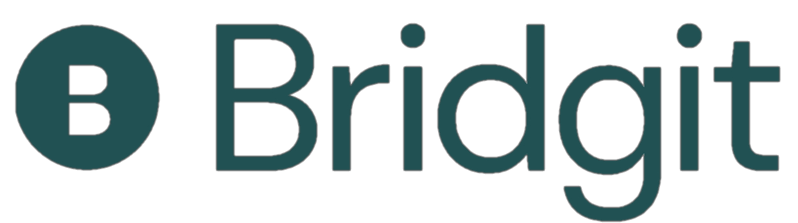
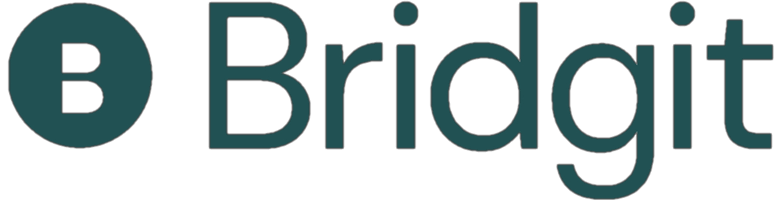
resized images and changed border on private tech partners, removed redundant headers

Changed region(s): [[0.2455, 0.0, 1.0, 1.0], [0.0, 0.0, 0.2148, 0.78], [0.1841, 0.24, 0.2148, 0.3]]

diff --git a/src/components/PrivateFeatures/TechPartners.js b/src/components/PrivateFeatures/TechPartners.js
@@ -18,7 +18,7 @@ const partnerData = [
   {
     name: "Airtable",
     imgSrc: Airtable,
-    description: "A host for multiple internal applications for use across a wide range of workflows within TCE as a whole.",
+    description: "A host for multiple internal applications for use across a wide range of workflows",
     extraText: "Airtable assists various user groups and their specific needs, including TCIG, Estimating, Safety, Engineers, and Project Managers. TCIG and Estimating leverage Airtable's static database functionality to track internal assets and plan future bids, complementing their workflow with Bridgit Bench. The efficiency gains are further enhanced through Airtable's process logic and email automation, seamlessly integrated into multiple applications. The safety team benefits from automation in capturing track/safety certifications in a database and notifies safety managers of expiration dates, reducing downtime required for updating certifications which often have lead times of over three months.",
     contactName: "Chris Kruger",
     contactEmail: "ckruger@tcelect.net",
@@ -31,7 +31,7 @@ const partnerData = [
   {
     name: "ProCore",
     imgSrc: ProCore,
-    description: "Work more efficiently, communicate better, and build faster from a single source of truth.",
+    description: "Work more efficiently, communicate better, and build faster from a single source of truth",
     extraText: "Procore streamlines project management by centralizing document storage and eliminating the hassles of fragmented version control. This all-in-one platform enhances the workflows of all project personnel, whether they're in the field or in the office. Preconstruction tasks like estimate management, bid coordination, budget calculations, and team personnel tracking become effortless. During active projects, Procore excels at automating RFIs and Submittals, simplifying mark-ups and drawing labeling, maintaining comprehensive daily logs in real-time, providing fillable Quality and Safety reports, and offering numerous other invaluable features.",
     contactName: "Patrick Besser",
     contactEmail: "pbesser@tcelect.net",
@@ -41,7 +41,7 @@ const partnerData = [
   {
     name: "OpenSpace",
     imgSrc: OpenSpace,
-    description: "Visual documentation of construction sites from walk-throughs.",
+    description: "Visual documentation of construction sites from walk-throughs",
     extraText: "OpenSpace offers engineers and project managers a practical solution for progress tracking, featuring a 360-degree camera attached to a hard hat that automatically records construction sites in 3-D. Executive Leadership can now remotely view the walk through of a project, in a similar manner to Google Maps, without the need to be there in-person. It allows for the addition of detailed photos and field notes during site walkthroughs, providing a comprehensive view for remote oversight, timeline tracking, and cost-effective insurance management.",
     contactName: "Rory O'Neill",
     contactEmail: "roneill@tcelect.net",
@@ -53,7 +53,7 @@ const partnerData = [
   {
     name: "Bridgit",
     imgSrc: Bridgit,
-    description: "Transforms workforce data into actionable insights that inform an organization’s strategic and tactical business decisions.",
+    description: "Transforms workforce data into insights that inform strategic and tactical business decisions",
     extraText: "Bridgit Bench improves project management by seamlessly integrating project and individual employee data, enabling more precise timelines and workforce optimization. During the pre-construction phase, it facilitates the creation and assignment of role titles and streamlines the coordination of Key Personnel for Design-Build Projects. As projects transition into the active phase and employees are assigned to specific roles, Bridgit Bench ensures optimal allocation, preventing overwork, and strategically placing employees based on their qualifications, certifications, and project history to meet both their needs and the project's requirements.",
     contactName: "Jacob Shavel",
     contactEmail: "jshavel@tcelect.net",
@@ -65,7 +65,7 @@ const partnerData = [
   {
     name: "EZOfficeInventory",
     imgSrc: EZ,
-    description: "Asset management for maximizing overstock usage and minimizing item surplus.",
+    description: "Asset management for maximizing overstock usage and minimizing item surplus",
     extraText: "EZOffice Inventory provides comprehensive asset tracking capabilities for items that can be allocated to various project sites. It mitigates the risk of lost or misused assets while optimizing resource utilization. Warehouse users benefit from streamlined processes for efficiently managing the inflow and outflow of items. Notable features, including location tracking and customized item groupings, eliminate the need for manual searches, ensuring zero downtime and efficient access to available in-stock items.",
     contactName: "Chris Kruger",
     contactEmail: "ckruger@tcelect.net",
@@ -77,7 +77,7 @@ const partnerData = [
   {
     name: "Matterport",
     imgSrc: Matterport,
-    description: "Capture and connect rooms to create detailed, interactive 3D spaces.",
+    description: "Capture and connect rooms to create detailed, interactive 3D spaces",
     extraText: "By utilizing Matterport cameras in construction settings, the camera seamlessly converts physical environments into immersive 3D models. This digital recreation enables remote viewing from any location and allows for quick, accurate distance measurements. Whether applied indoors or outdoors, Matterport's 3D documentation system captures a visual snapshot at each project milestone, serving as a comprehensive record-keeping tool throughout the construction process.",
     contactName: "Rory O'Neill",
     contactEmail: "roneill@tcelect.net",
@@ -87,7 +87,7 @@ const partnerData = [
   {
     name: "Oracle",
     imgSrc: Oracle,
-    description: "Maximize project efficiency and performance with Oracle P6, the robust and easy-to-use integrated project portfolio management solution.",
+    description: "Maximize efficiency and performance with an integrated project portfolio management solution",
     extraText: "Oracle P6 offers unparalleled control over project complexity by facilitating planning, scheduling, and resource management across your entire portfolio. P6 is tailored for large-scale, highly sophisticated project management and enables organizations to meet deadlines, stay within budget, and achieve their project goals. It excels in multi-user and multi-project environments with features like Gantt charts, Work Breakdown Structures, and comprehensive reporting tools.",
     contactName: "Sahul Kadarpeta",
     contactEmail: "skadarpeta@tcelect.net",
@@ -97,7 +97,7 @@ const partnerData = [
   {
     name: "FieldWire",
     imgSrc: FieldWire,
-    description: "Standardized workflow and collaboration for marking up drawings.",
+    description: "Standardized workflow and collaboration for marking up drawings",
     extraText: "Fieldwire streamlines collaboration and version control for multiple engineers, eliminating the need to constantly ensure that work is done on the latest document version. In the past, projects faced challenges with communication among engineers and maintaining consistency in project drawings. However, Fieldwire offers a standardized space for document history and collaborative drawing markups, effectively reducing the pain points associated with maintaining consistency, enhancing communication, and improving overall efficiency.",
     contactName: "Rory O'Neill",
     contactEmail: "roneill@tcelect.net",
@@ -107,11 +107,10 @@ const partnerData = [
 ];
 
 const TechPartners = () => {
-  const [readMoreStates, setReadMoreStates] = useState(new Array(partnerData.length).fill(false));
+  const [expandedIndex, setExpandedIndex] = useState(-1);
 
   const toggleReadMore = (index) => {
-    const newReadMoreStates = readMoreStates.map((state, i) => (i === index ? !state : state));
-    setReadMoreStates(newReadMoreStates);
+    setExpandedIndex(expandedIndex === index ? -1 : index);
   };
 
   const handleImageClick = (e, partner) => {
@@ -125,7 +124,6 @@ const TechPartners = () => {
 
   return (
     <div className="container">
-      <div className="header">TECH PARTNERS</div>
       <br />
       <div className="tech-subheader">
         On this page you will find information about software tools in TCE's technology stack. 
@@ -136,14 +134,13 @@ const TechPartners = () => {
       </div>
       <div className="cards-container">
         {partnerData.map((partner, index) => (
-          <div className="card" key={index} onClick={() => toggleReadMore(index)}>
+          <div className={`card ${expandedIndex === index ? 'expanded' : ''}`} key={index} onClick={() => toggleReadMore(index)}>
             
             <div className="one-liner-container">
               <div className="card-image" onClick={(e) => handleImageClick(e, partner)}>
                 <img
                   src={partner.imgSrc}
                   alt={partner.name}
-                  style={{ cursor: 'pointer' }}
                 />
               </div>
   
@@ -152,11 +149,11 @@ const TechPartners = () => {
               </div>    
 
               <IconButton onClick={() => toggleReadMore(index)} className="read-more-button" disableRipple>
-                {readMoreStates[index] ? <KeyboardArrowUpIcon/> : <KeyboardArrowDownIcon/>}
-              </IconButton>          
+                {expandedIndex === index ? <KeyboardArrowUpIcon/> : <KeyboardArrowDownIcon/>}
+              </IconButton>        
             </div>
   
-            {readMoreStates[index] && (
+            {expandedIndex === index && (
               <div className="expanded-container">
                 <div className="link-box">
                   {partner.documents && partner.documents.map((doc, docIndex) => (

diff --git a/src/components/General/Navigation.js b/src/components/General/Navigation.js
@@ -61,6 +61,10 @@ function ResponsiveAppBar() {
                 return 'Idea Submission';
             case 'public':
                 return 'TCE Innovation Group';
+            case 'tech':
+                return 'Tech Partners';
+            case 'privateHome':
+                return 'Welcome';
             default:
                 return 'TCE Innovation Group';  
         }
@@ -85,16 +89,16 @@ function ResponsiveAppBar() {
                 <Toolbar disableGutters>
                     <Box sx={{ display: 'flex', alignItems: 'center'}}>       
                         <NavLink to="/">
-                        <img
-                            src={logo}
-                            alt='logo'
-                            style={{
-                                width: '180px',
-                                marginLeft: '20px',
-                                marginTop: '4px'
-                            }}
-                            draggable="false"
-                        />
+                            <img
+                                src={logo}
+                                alt='logo'
+                                style={{
+                                    width: '180px',
+                                    marginLeft: '20px',
+                                    marginTop: '4px'
+                                }}
+                                draggable="false"
+                            />
                         </NavLink>
                     </Box>
                     <Typography

diff --git a/src/components/PrivateFeatures/privateStyle.css b/src/components/PrivateFeatures/privateStyle.css
@@ -17,10 +17,9 @@
   }
 
   .tech-subheader {
-    color: #003eab;
+    color: #1b365f;
     font-family: "Inter-Bold", Helvetica;
-    font-size: 23px;
-    font-weight: 700;
+    font-size: 24px;
     letter-spacing: 0;
     line-height: normal;
     margin-bottom: 40px;
@@ -37,16 +36,13 @@
   .card {
     display: flex;
     flex-direction: column;
-    justify-content: space-between;
-    border: #1b365f 2px solid;
     width: 100%;
     margin-bottom: 20px;
     padding: 20px;
-    box-shadow: inset 0px 0px 10px #1b365f;
   }
 
   .card:hover{
-    box-shadow: 0px 0px 10px #1b365f;
+    box-shadow: 0px 0px 5px #1b365f;
     cursor: pointer;
   }
 
@@ -63,6 +59,7 @@
     font-weight: 500;
     letter-spacing: 0;
     line-height: normal;
+    margin-left: 40px;
   }
   
   .extra-text {
@@ -81,8 +78,8 @@
   }
 
   .read-more-button.MuiIconButton-root:hover {
-    background-color: transparent; /* Removes any background change on hover */
-    box-shadow: none; /* Removes shadow on hover */
+    background-color: transparent;
+    box-shadow: none; 
   }
 
   .contact-text{
@@ -95,9 +92,8 @@
   }
 
   .card-image{
-    width: 30%;
-    height: 40%;
-    object-fit: cover;
+    display: flex;
+    height: 60px;
     margin-top: 10px;
   }
 

diff --git a/src/components/PrivateFeatures/GOTracker.js b/src/components/PrivateFeatures/GOTracker.js
@@ -9,15 +9,15 @@ const GOTracker = () => {
     };
 
     const spinnerContainerStyle = {
-        position: 'fixed', // Fixed position to place it relative to the viewport
-        top: '50%', // Center vertically
-        left: '50%', // Center horizontally
-        transform: 'translate(-50%, -50%)', // Offset the spinner to the exact center
-        zIndex: 100, // Ensure the spinner is above other elements
+        position: 'fixed', 
+        top: '50%', 
+        left: '50%', 
+        transform: 'translate(-50%, -50%)',
+        zIndex: 100,
     };
 
     return (
-        <div style={{ width: '100%', display: 'flex', flexDirection: "column", alignContent: 'center'}}>
+        <div style={{ width: '100%', display: 'flex', flexDirection: "column", alignContent: 'center', marginTop:20}}>
             {!iframeLoaded && (
                 <div style={spinnerContainerStyle}>
                     <CircularProgress />

diff --git a/src/components/PublicFeatures/ContactUs.js b/src/components/PublicFeatures/ContactUs.js
@@ -59,7 +59,7 @@ const ContactUs = () => {
             {!isSubmitted ? (
                 <>
                     <div className="form-prompt">
-                        Please fill out the form below to contact TCIG.
+                        Want to learn more? Please fill out the form below to contact TCIG.
                     </div>
                     <br />
                     <div>
@@ -95,7 +95,7 @@ const ContactUs = () => {
                                 value={organization}
                                 onChange={handleOrganizationInputChange}
                                 aria-describedby="organization-helper-text"
-                                sx={{ flex: 1, mb: 1 }} // Removed mr to align with the container's edge
+                                sx={{ flex: 1, mb: 1 }} 
                                 />
                             </Box>
                         </FormControl>

diff --git a/src/components/PrivateFeatures/CRO.js b/src/components/PrivateFeatures/CRO.js
@@ -144,7 +144,7 @@ const CRO = () => {
 
                     <Button
                             variant="contained"
-                            sx={{ color: 'black', fontWeight: 700, backgroundColor: 'white', '&:hover': { backgroundColor: 'grey' }, marginTop: 4}}
+                            sx={{ color: 'black', fontWeight: 700, backgroundColor: 'white', '&:hover': { backgroundColor: theme => theme.palette.grey[500] }, marginTop: 4}}
                             onClick={() => {
                                 setShowCableSizeSheet(!showCableSizeSheet);
                                 if (showCableSizeSheet) {

diff --git a/src/components/PrivateFeatures/GenerateEmails.js b/src/components/PrivateFeatures/GenerateEmails.js
@@ -73,7 +73,6 @@ const GenerateEmails = () => {
         setLoading(false);
     };
 
-    //TODO: convert from sendgrid to email.write permissions
     const sendEmail = async () => {
         setOpen(false);
         setError('');
@@ -105,6 +104,7 @@ const GenerateEmails = () => {
                 minHeight: '30vh',
                 padding: 4,
                 backgroundColor: '#f5f5f5',
+                marginTop: '20px',
             }}
         >
             <Box

diff --git a/src/components/Private/PrivateHome.js b/src/components/Private/PrivateHome.js
@@ -5,7 +5,6 @@ import React from 'react';
 import { Container} from '@mui/material';
 
 //COMPONENTS
-import Copyright from '../General/Copyright';
 import ContactUs from '../PrivateFeatures/ContactUs';
 import Welcome from '../PrivateFeatures/Welcome';
 
@@ -14,7 +13,6 @@ const PrivateHome = () => {
         <Container>
             <Welcome/>
             <ContactUs/>
-            <Copyright sx={{ mt: 10, mb: 4 }} />
         </Container>
     );
 };

diff --git a/src/components/PrivateFeatures/OTTracker.js b/src/components/PrivateFeatures/OTTracker.js
@@ -9,10 +9,10 @@ const OTTracker = () => {
     };
 
     const spinnerContainerStyle = {
-        position: 'fixed', // Fixed position
-        top: '50%', // Halfway down the viewport
-        left: '50%', // Halfway across the viewport
-        transform: 'translate(-50%, -50%)' // Center the spinner
+        position: 'fixed', 
+        top: '50%', 
+        left: '50%', 
+        transform: 'translate(-50%, -50%)' 
     };
 
     return (
